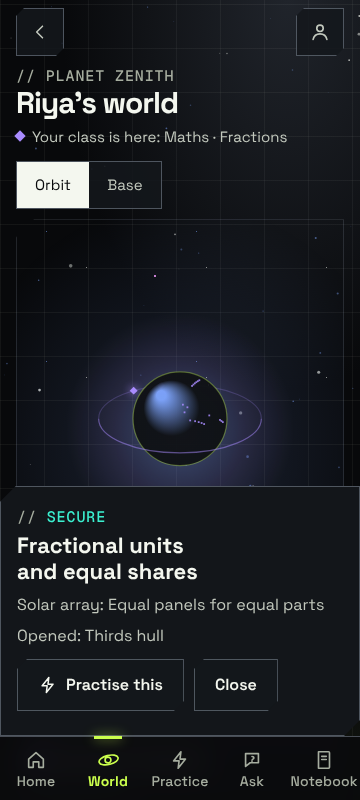
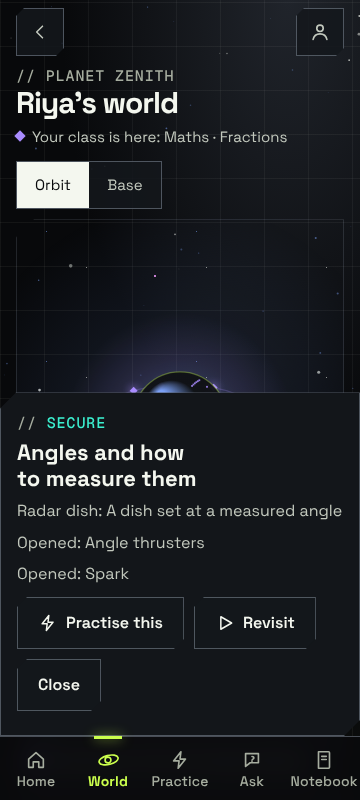
r7 E App: 'Revisit' on a World station — a lesson back on its topic through /lesson/new?topic= (the plan still decides; never on a hold)
Claude-Session: https://claude.ai/code/session_01Uk49c2MmSpb9CU49GhQaZc

diff --git a/src/ui-v3/kaksha/views.tsx b/src/ui-v3/kaksha/views.tsx
@@ -176,6 +176,8 @@ export interface WorldViewProps extends NavProps {
   seals?: Array<{ id: string; subject: string; title: string; sealedAt?: string | null }>;
   /** r7 app-practice-entry: where "Practise this" on a station goes (its topic's practice set); null: not offered (hold). */
   practiceTo?: ((skillId: string) => string | null) | null;
+  /** r7 app-world-hangar-depth: "Revisit with {T}": a lesson back on the station's topic (the plan still decides); null: none. */
+  revisitTo?: ((skillId: string) => string | null) | null;
   go?: Go;
 }
 
@@ -280,6 +282,9 @@ export function WorldView(p: WorldViewProps) {
               {/* r7 app-practice-entry: a quick retrieval set on this idea (in-run feedback only, nothing carried) */}
               {station && p.practiceTo?.(station.skillId) && (
                 <A to={p.practiceTo(station.skillId)!} go={p.go} className="kx-ghost kx-cut kx-ghost--go" testid="station-practise"><Icon d={I.practice} />{kt("practiseThis")}</A>
+              )}
+              {station && p.revisitTo?.(station.skillId) && (
+                <A to={p.revisitTo(station.skillId)!} go={p.go} className="kx-ghost kx-cut kx-ghost--go" testid="station-revisit"><Icon d={I.play} />{kt("revisit")}</A>
               )}
               <button type="button" className="kx-ghost kx-cut" onClick={() => setPick(null)}>{kt("close")}</button>
             </div>

diff --git a/src/ui-v3/kaksha/screens/KakshaWorld.tsx b/src/ui-v3/kaksha/screens/KakshaWorld.tsx
@@ -43,7 +43,8 @@ export function KakshaWorld() {
       <WorldView childName={child.first_name} world={w.today} yesterday={w.yesterday} hidden={w.hidden} reducedMotion={reducedMotion}
         backTo={`/c/${cid}`} hangarTo={`/c/${cid}/hangar`} go={go} dock={kn.dock} meTo={kn.meTo} school={w.school} seals={w.seals}
         // r7 app-practice-entry: a station's topic (its skill id without the -sN suffix) as a practice set; none on a hold
-        practiceTo={cachedHold(cid) ? null : (skillId) => { const t = topicOfSkill(skillId); return t ? `/c/${cid}/practice/${encodeURIComponent(t)}` : null; }} />
+        practiceTo={cachedHold(cid) ? null : (skillId) => { const t = topicOfSkill(skillId); return t ? `/c/${cid}/practice/${encodeURIComponent(t)}` : null; }}
+        revisitTo={cachedHold(cid) ? null : (skillId) => { const t = topicOfSkill(skillId); return t ? `/c/${cid}/lesson/new?topic=${encodeURIComponent(t)}` : null; }} />
     </KakshaRoot>
   );
 }

diff --git a/src/ui-v3/kaksha/copy.ts b/src/ui-v3/kaksha/copy.ts
@@ -66,6 +66,7 @@ export const KX = {
   madeForYou: K("Made for you", "Tumhare liye bana", "तुम्हारे लिए बना"),
   playAgain: K("Play again", "Phir se khelo", "फिर से खेलो"),
   practiseThis: K("Practise this", "Isko practise karo", "इसका अभ्यास करो"),
+  revisit: K("Revisit", "Phir se dekho", "फिर से देखो"),
   // r7 app-world-hangar-depth: chapter seals (the ledger's: every skill Got it or Secure)
   chapterSealed: K("Chapter sealed", "Chapter pakka", "अध्याय पक्का"),
   sealNote: K("Every idea in this chapter is yours now.", "Is chapter ka har idea ab tumhara hai.", "इस अध्याय का हर विचार अब तुम्हारा है।"),
